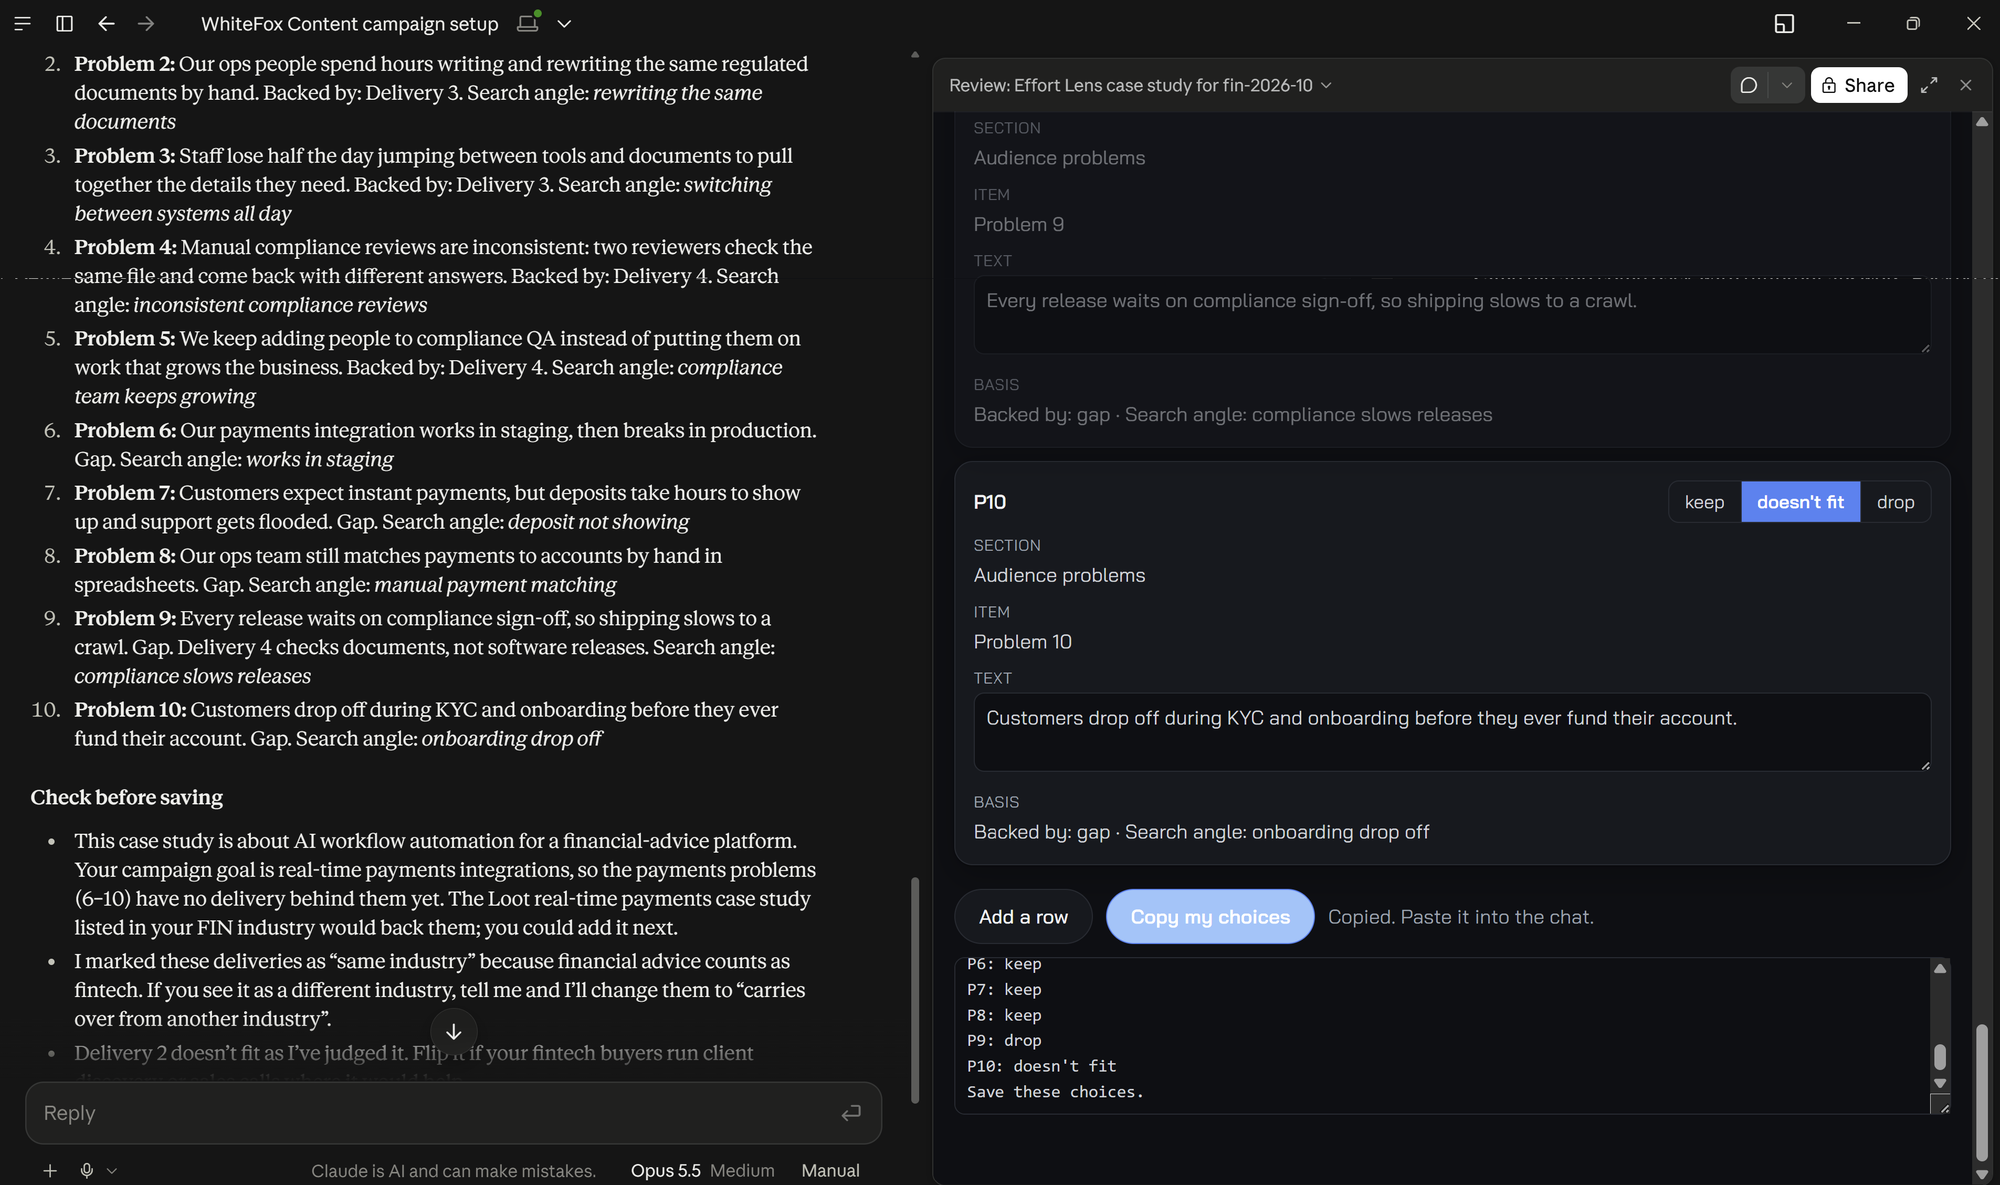
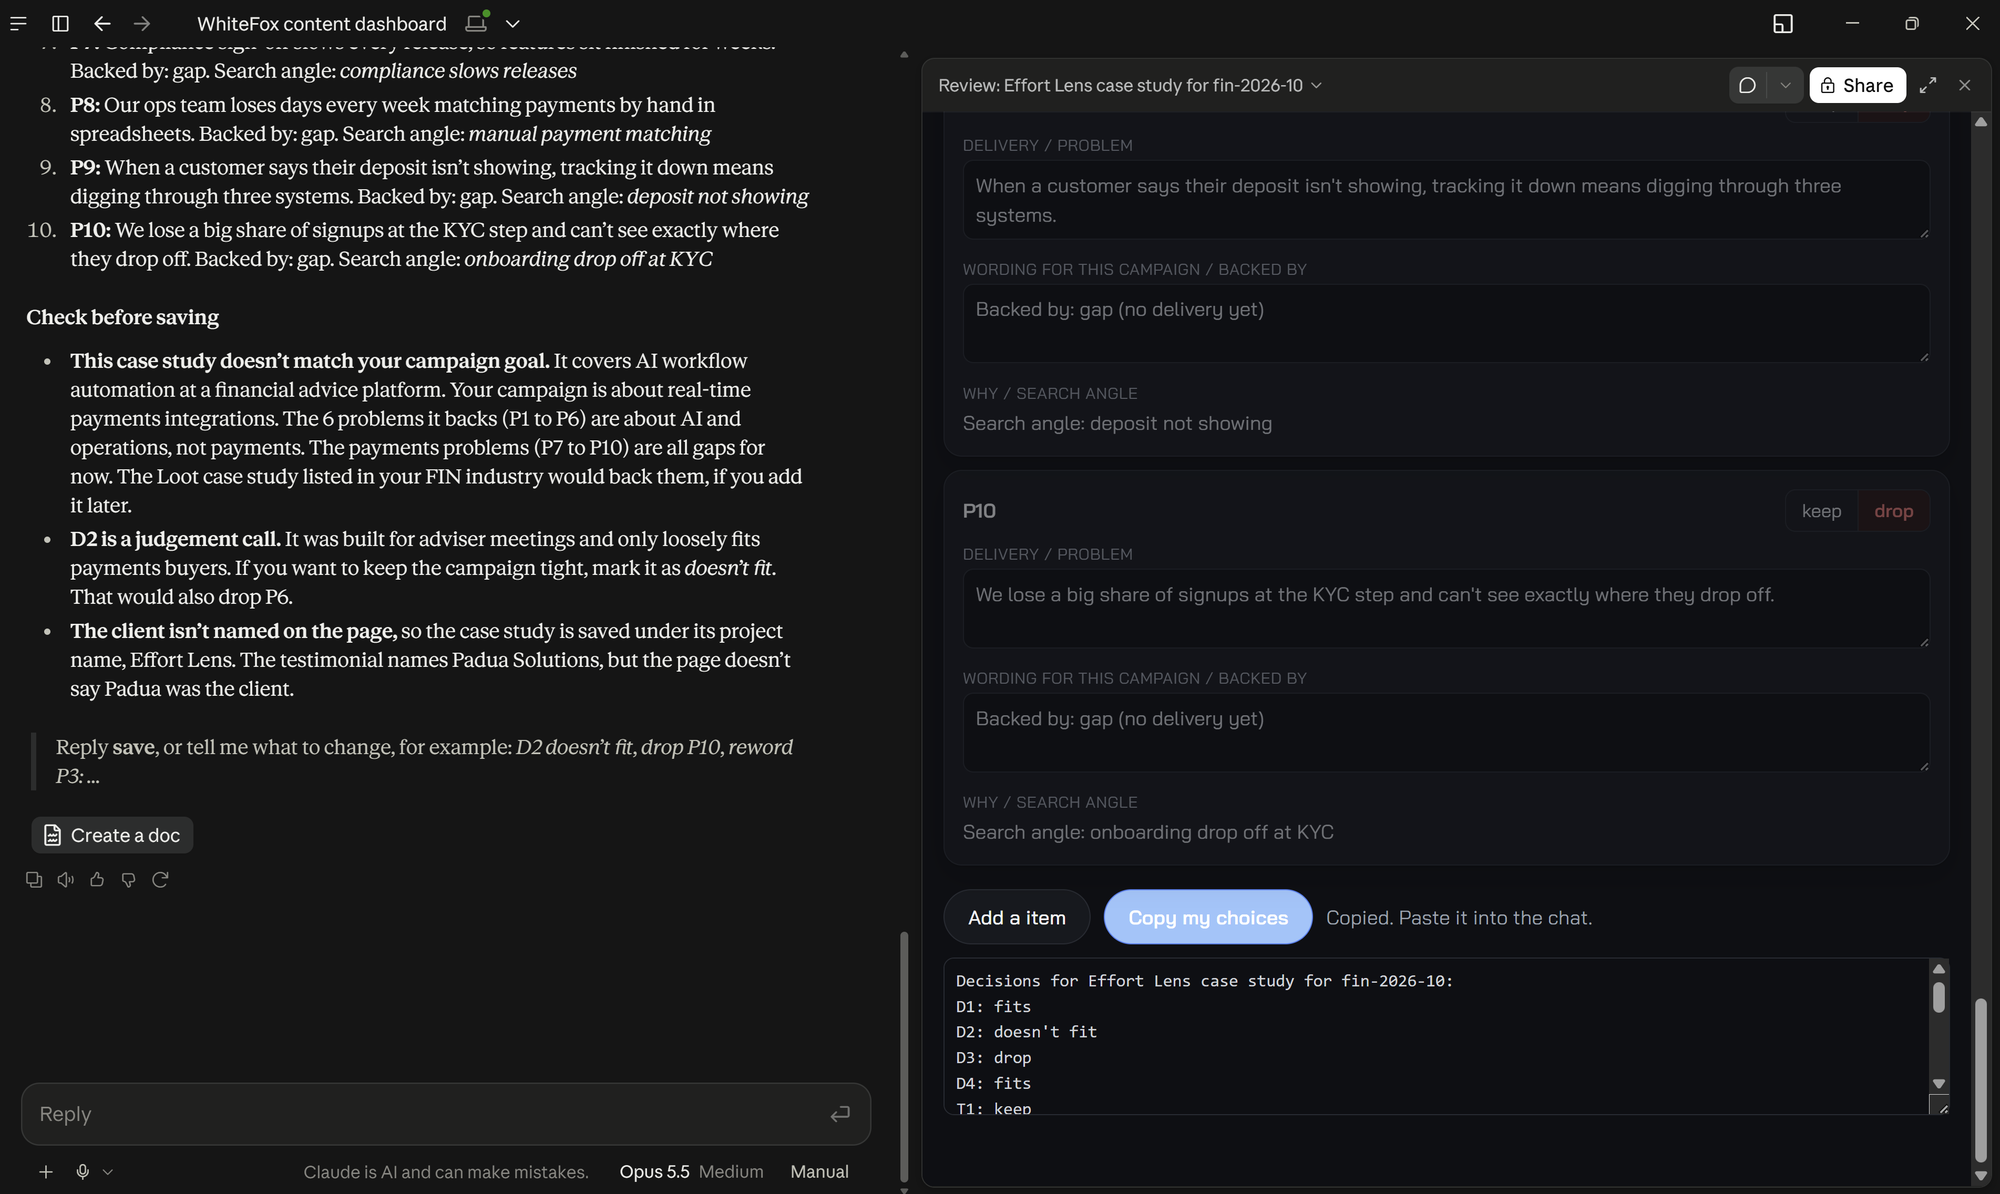
fix(review): never suggest a case study anywhere, add-an wording, stage 1 screenshots (0.15.7)

diff --git a/plugins/wf-content/skills/whitefox-content-guide/formats/review.html b/plugins/wf-content/skills/whitefox-content-guide/formats/review.html
@@ -16,7 +16,7 @@
   {
     "stage": "Stage 2 of 3, Find topics: step 2 of 3, mint lanes",   // optional header line
     "title": "Lanes for fin-2026-10",          // heading
-    "item": "lane",                            // what one row is, used for "Add a lane"
+    "item": "lane",                            // what one row is, used for "Add a lane" (a noun, singular)
     "allowAdd": true,                          // show the Add button
     "fields": [                                // columns, in order
       { "key": "label", "label": "Label", "edit": true },
@@ -200,7 +200,7 @@ function update() {
 
 const addBtn = document.getElementById("add");
 if (DATA.allowAdd === false) addBtn.style.display = "none";
-addBtn.textContent = `Add a ${DATA.item}`;
+addBtn.textContent = `Add ${/^[aeiou]/i.test(DATA.item) ? "an" : "a"} ${DATA.item}`;
 addBtn.onclick = () => {
   newCount += 1;
   state.push({ id: `new-${newCount}`, orig: {}, vals: {}, ch: choices, pick: choices[0], isNew: true });

diff --git a/docs/user-manual.md b/docs/user-manual.md
@@ -208,11 +208,13 @@ Command: `/whitefox-content-add-case-study`
 3. Claude lists **what we delivered**: each piece of work WhiteFox really did, in whole
    sentences from the case study, and checks which ones fit your campaign's audience.
 4. Claude names your **audience's problems** that this work solves, in your buyers' words.
-5. Review both on the review page (section 8) and approve.
+5. Review both on the review page (section 8). Each delivery has **fits** (use it in this
+   campaign), **doesn't fit** (keep it in the library, not for this campaign) or **drop** (do not
+   save it). Each problem has **keep** or **drop**. Then **Copy my choices**, paste, send.
 
-![Stage 1 starts and asks for the case study](images/18-app-stage1-start.png)
+![Starting stage 1 from the dashboard's command](images/18-app-stage1-start.png)
 
-![Attaching a case study](images/19-add-case-study.png)
+![Stage 1 asks for the case study; the link is pasted](images/19-add-case-study.png)
 
 ![Review: what we delivered](images/20-review-deliveries.png)
 
@@ -388,9 +390,9 @@ Save each image in `docs/images/` with this name:
 | `15-start.png` | the start reply with the dashboard open on the right |
 | `16-new-campaign.png` | /whitefox-content-campaign: the industry and goal question, with the answer typed |
 | `17-app-campaign-created.png` | campaign created in the chat, dashboard showing it with Add a case study suggested |
-| `18-app-stage1-start.png` | the stage 1 opener asking for the case study, dashboard on the right |
-| `19-add-case-study.png` | a case study attached in the message box |
-| `20-review-deliveries.png` | review page for what we delivered |
+| `18-app-stage1-start.png` | the start reply, with /whitefox-content-add-case-study typed (or copied from the dashboard) |
+| `19-add-case-study.png` | the stage 1 opener asking for the case study, with the link pasted |
+| `20-review-deliveries.png` | stage 1 review page: one row per delivery with fits, doesn't fit, drop |
 | `21-quotes.png` | audience quotes in the chat, with links |
 | `22-review-topics.png` | review page for topics (chosen, idea, drop) |
 | `23-free-or-paid.png` | the free or paid question with the price |

diff --git a/plugins/wf-content/skills/whitefox-content-start/SKILL.md b/plugins/wf-content/skills/whitefox-content-start/SKILL.md
@@ -5,7 +5,7 @@ description: Start here for WhiteFox content work. Sets up the WhiteFox Content 
 
 # Start
 
-You are the front door of the WhiteFox content plugin, version 0.15.6. Read
+You are the front door of the WhiteFox content plugin, version 0.15.7. Read
 `../whitefox-content-guide/formats/README.md` (the workspace rules) before anything else.
 
 ## Steps built in this version
@@ -65,14 +65,14 @@ If `settings.md` does not exist in the workspace:
 3. On a name and yes, create them, then say the workspace is ready. A yes without a name: ask
    the name only.
 
-If `settings.md` exists but its `plugin` version differs from 0.15.6, update that line and say
-"Updated from <old> to 0.15.6".
+If `settings.md` exists but its `plugin` version differs from 0.15.7, update that line and say
+"Updated from <old> to 0.15.7".
 
 ## 3. Show where things stand
 
 Reply with:
 
-1. One line: "WhiteFox Content 0.15.6, workspace: <path>".
+1. One line: "WhiteFox Content 0.15.7, workspace: <path>".
 2. Only if a newer version exists (see "Checking for a newer version"), one line:
    "A newer version (<latest>) is available. To update: Claude app, Customize, Plugins,
    WhiteFox Content, the ⋯ menu, Check for updates, Update, then start a new chat. Claude
@@ -122,7 +122,7 @@ Reply with:
 
 If you can fetch web pages, fetch
 `https://raw.githubusercontent.com/whitefoxcloud/whitefox-content-plugin/main/plugins/wf-content/.claude-plugin/plugin.json`
-and read its `version`. If it is higher than 0.15.6 (compare each number in turn), show the
+and read its `version`. If it is higher than 0.15.7 (compare each number in turn), show the
 update line. If the fetch fails or you cannot fetch pages, skip the check silently; never
 delay or block the rest of `start` for it.
 

diff --git a/plugins/wf-content/skills/whitefox-content-guide/formats/README.md b/plugins/wf-content/skills/whitefox-content-guide/formats/README.md
@@ -184,6 +184,13 @@ example:
 Number the items you show, so the user can refer to them. After a change, show the changed
 items and ask again; save only after a clear yes ("save", "yes", "go ahead").
 
+## Never pick a case study
+
+The user chooses every case study. Never suggest, offer or recommend a specific one (by name or
+link), anywhere: not when asking for one, not in "Check before saving", not as a next step,
+even if an industry profile lists it. When problems are gaps, say only that another case study
+could back them.
+
 ## Reading web pages
 
 Read web pages (search results, forums, articles) with web search and web fetch, never with

diff --git a/README.md b/README.md
@@ -4,7 +4,7 @@ Turns case studies into proof-backed LinkedIn posts, articles and emails, one ap
 a time. Runs in the Claude desktop app and in Claude Code, on your own Claude subscription (Pro
 or Max).
 
-Status: 0.15.6. Every step is built, grouped into three stage commands (add a case study, find
+Status: 0.15.7. Every step is built, grouped into three stage commands (add a case study, find
 topics, write) after setup with `whitefox-content-start`.
 
 The words it uses: **what we delivered** (one piece of work from a case study), **audience

diff --git a/CHANGELOG.md b/CHANGELOG.md
@@ -1,5 +1,11 @@
 # Changelog
 
+## 0.15.7
+
+- Claude never suggests a specific case study anywhere (also not in "Check before saving").
+- Review page: "Add an item", not "Add a item".
+- User manual: stage 1 screenshots retaken with the new review page.
+
 ## 0.15.6
 
 - Asking for a case study never suggests one (for example from the industry's links): you
